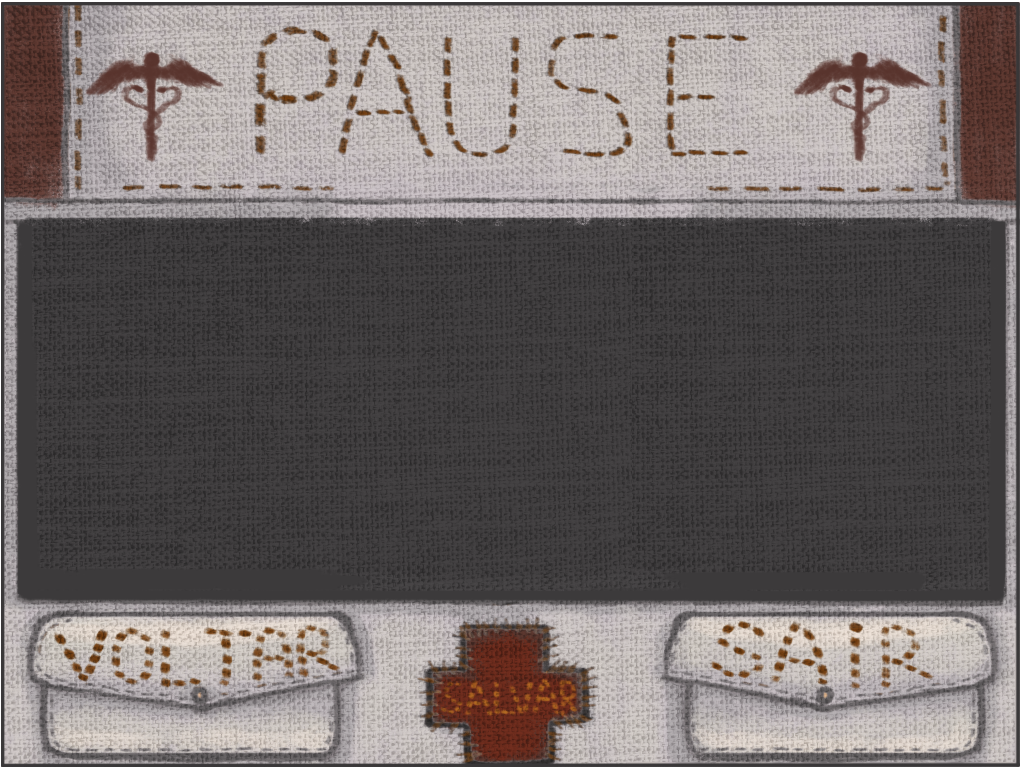
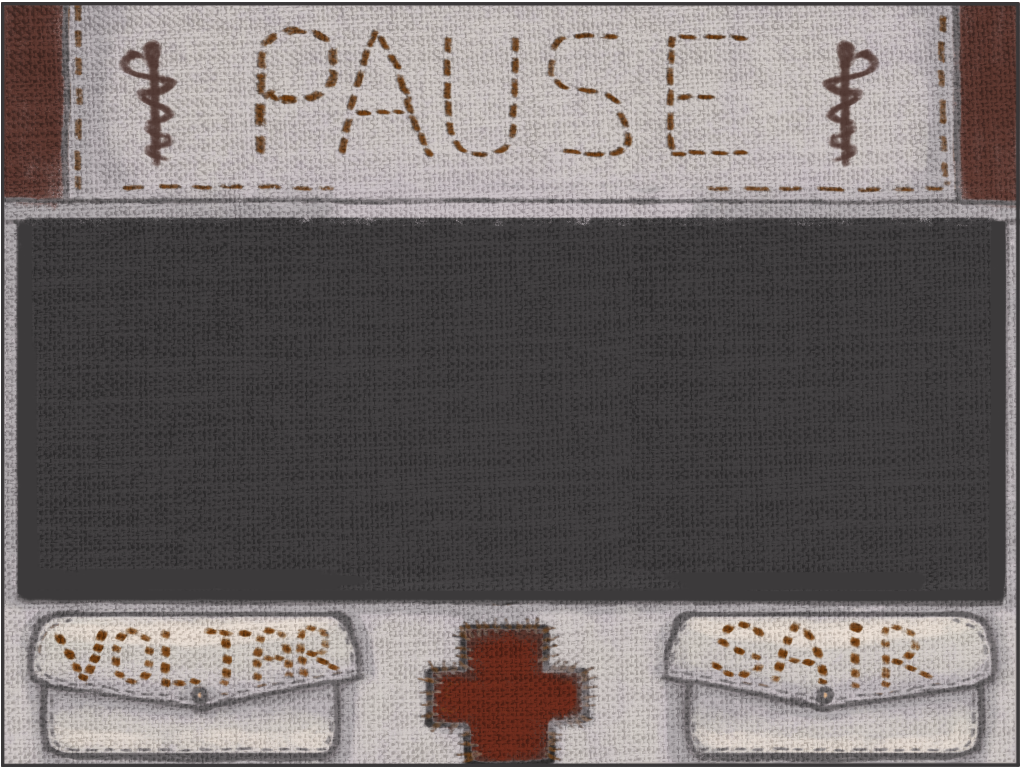
Update inventory background and fix cursor positions

Changed region(s): [[0.0625, 0.0312, 0.2188, 0.2188], [0.7812, 0.0312, 0.9062, 0.2188], [0.4375, 0.8438, 0.5938, 0.9688]]

diff --git a/src/InventoryState.cpp b/src/InventoryState.cpp
@@ -21,8 +21,8 @@ InventoryState::InventoryState()
   gridHeight = 3;
   initialPosition = {461, 234};
 
-  menuLength = 3;
-  menuItemPositions = {{200, 700}, {511, 700}, {820, 700}};
+  menuLength = 2;
+  menuItemPositions = {{200, 630}, {820, 630}};
   if ((unsigned)menuLength != menuItemPositions.size()) {
     throw std::runtime_error(
         "Mano, tu acabou de setar o tamanho de um menu e nao colocou o mesmo "
@@ -124,7 +124,7 @@ void InventoryState::Update(float dt) {
     if (im.KeyPress(UP_ARROW_KEY)) {
       cursorIndex = Inventory;
       inventoryCursorIndex = (gridHeight - 1) * gridWidth;
-      if (menuCursorIndex == 2) {
+      if (menuCursorIndex == 1) {
         inventoryCursorIndex += gridWidth - 1;
       }
       updateShowcase();
@@ -138,8 +138,6 @@ void InventoryState::Update(float dt) {
           popRequested = true;
           break;
         case 1:
-          break;
-        case 2:
           quitRequested = true;
           break;
         default:
